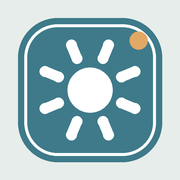
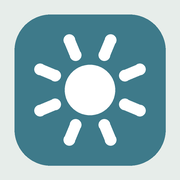
Icônes v3 : forme d'origine, couleur pleine, sans point ambre (SW v81)

diff --git a/service-worker.js b/service-worker.js
@@ -1,4 +1,4 @@
-const CACHE = 'bob-v80';
+const CACHE = 'bob-v81';
 const ASSETS = [
   './',
   './index.html',